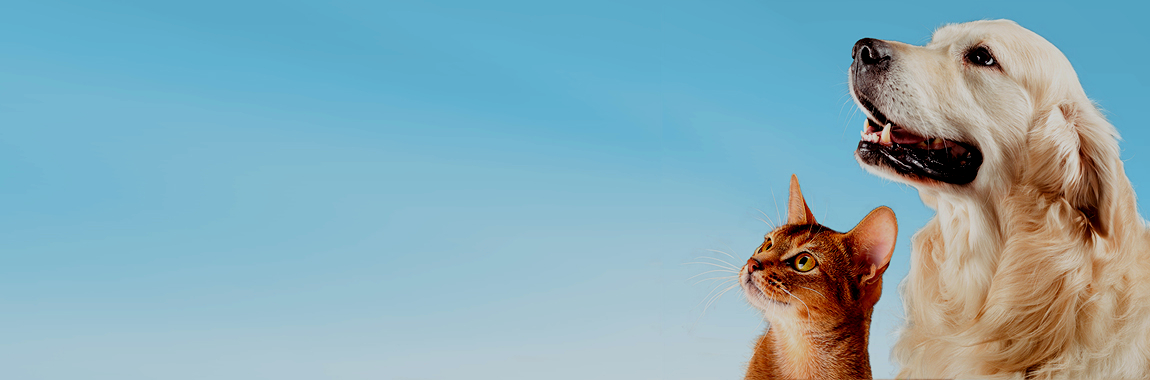
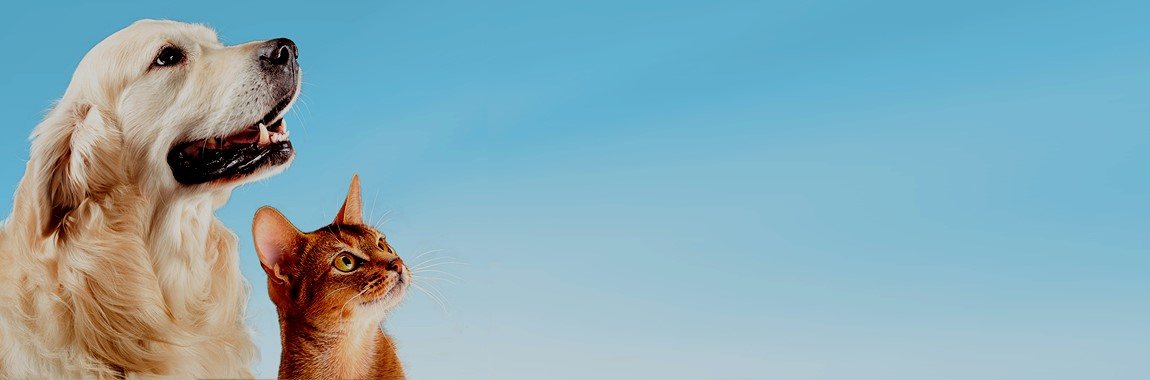
intento de arreglar el nav

diff --git a/assets/css/style.css b/assets/css/style.css
@@ -8,7 +8,7 @@
 .bodyConHeader{
     display: grid;
     grid-template-columns: repeat(4,1fr);
-    grid-template-rows: 65px 400px auto 80px;
+    grid-template-rows: 65px 435px auto 80px;
     grid-template-areas:"nav   nav     nav nav"
                         "header header header header"
                         "main   main   main main" 
@@ -18,18 +18,18 @@
 
 @media screen and (max-width:820px){
     .bodyConHeader{
-    grid-template-rows: 65px 550px auto 80px;
+    grid-template-rows: 65px 400px auto 80px;
     }
 }
-@media screen and (max-width:550px){
+@media screen and (max-width:600px){
     .bodyConHeader{
-        grid-template-rows: 65px 700px auto 110px;
+        grid-template-rows: 65px 300px auto 110px;
     }    
 }
 .bodySinHeader{
     display: grid;
     grid-template-columns: repeat(3,1fr);
-    grid-template-rows: 65px auto 80px;
+    grid-template-rows: 80px auto 80px;
     grid-template-areas:"nav    nav    nav nav"
                         "main   main   main main"
                         "footer footer footer footer";
@@ -41,7 +41,7 @@
     }
 }
 
-@media screen and (max-width:550px){
+@media screen and (max-width:600px){
     .bodySinHeader{
         grid-template-rows: 65px auto 110px;
     }
@@ -54,14 +54,11 @@
     grid-area: nav;
     background-color:#3AB4F2;;
     width: 100%;
-    position: fixed;
     padding: 10px 0;
     display: flex;
     justify-content: space-between;
 }
-.navegador i{
-    display: none;
-}
+
 
 .navegador ul {
     list-style-type: none;
@@ -83,8 +80,6 @@
     
 }
 
-
-
 .navegador .logo{
     display: flex;
     align-items: center;
@@ -102,33 +97,26 @@
     margin-right: 5px;
 }
 
+.labelMenu , .inputMenu {
+    display: none;
+}
+
 @media screen and (max-width:820px){
-    .navegador i{
-        display: block;
-        font-size: 50px;
-        padding: 10px;
-    }
-    .navegador ul{
-        position: fixed;
-        top: 0px;
-        left: -300px;
-        width: 250px;
-        height: 100vh;
+    .navegador > ul{
+        display: none;
         flex-direction: column;
-        justify-content: start;
-        align-items: center;
-        padding-top: 100px;
-        row-gap: 50px;
-        background-color:#3AB4F2;
-        transition: 0.2s;
     }
-    .navegador .fa-bars:hover +ul {
-        left: 0px;
+    .labelMenu{
+        display: block;
+        font-size: 30px;
+        margin-left: 10px;
     }
 
-    .navegador >ul:hover{
-        left: 0;
-    } 
+    .inputMenu:checked + .navegador > ul{
+        display: block;
+    }
+   
+
 }
 
 .navegador ul li a::after{
@@ -155,43 +143,41 @@
 
 .encabezado{
     grid-area: header;
-    background-image: url(../img/headerImg.jpg);
-    display: flex;
+}
+.encabezado p{
+    font-size: 20px;
+}
+.encabezado1{
+    grid-area: header;
+    background-image: url(../img/headerdogs.jpg);
     background-size: cover;
-    align-items: center;
-    justify-content: center;
-    color: #fff;
+}
+.encabezado2 {
+    background-image: url(../img/headercats.jpg);
+    background-size: cover;
+    width: 100vw;
 }
 
-.encabezadoInfo p{
-    font-size: 30px;
-    margin: 10px 20px;
-
+/*desaparece texto enn 770px*/
+@media screen and (min-width:820){
+    .slide img{
+        height: 500px;
+        object-fit: cover;
+    }
 }
-
-.encabezadoInfo h1{
-    font-family: 'Mukta', sans-serif;
-}
-.encabezadoInfo{
-    font-family: 'Lato', sans-serif;
-    font-weight: bold;
-    
-}
-
 @media screen and (max-width:820px){
-    .encabezado{
-        background-image: url(../img/header4.jpg);
-        color: #000;
+    .slide img{
+        height: 400px;
+        object-fit: cover;
     }
-    .encabezadoInfo h1{
-        padding-bottom: 30px;
-    
-    }
-        
+   
 }
 
-@media screen and (max-width:550px){
-    
+@media screen and (max-width:600px){
+    .slide img{
+        height: 300px;
+        object-fit: cover;
+    }
     .encabezadoInfo h1{
         font-size: 70px;
         margin: 0;
@@ -339,12 +325,12 @@ footer{
 }
 
 
-.encabezadoAdopcion .encabezadoInfo{
+.encabezadoInfo{
     text-align: center;
     font-size: 20px;
     color: #fff;
 }
-.encabezadoAdopcion .encabezadoInfo p{
+.encabezadoInfo p{
     margin-bottom: 50px;
 
 }
@@ -359,30 +345,31 @@ footer{
 
 @media screen and (max-width:820px){
     .encabezadoAdopcion .encabezadoInfo p{
-        font-size: 35px;
+        font-size: 20px;
         margin-bottom: 30px;
+        margin-right: 10px;
     }
     .encabezadoAdopcion .encabezadoInfo h1{
         font-size: 50px;
     }
     .encabezadoInfo a{
         display: flex;
-        width: 100%;
-        padding: 15px 0px;
-        font-size: 30px;
+        margin: auto;
+        width: 80%;
+        padding: 5px 0px;
+        font-size: 20px;
+        font-weight: bold;
         justify-content: center;
         background-color: #F2DF3A;
         border: none;
 
     }
-    .encabezadoAdopcion{
-        background-image: url(../img/header3.jpg);
-    }
+    
 }
 .encabezadoInfo a:hover{
     background-color: #F2DF3A;
 }
-@media screen and (max-width:450px){
+@media screen and (max-width:780px){
     .encabezadoAdopcion{
         justify-content: start;
     }
@@ -392,6 +379,20 @@ footer{
     }
     .encabezadoAdopcion .encabezadoInfo h1{
         font-size: 30px;
+    }
+
+}
+@media screen and (max-width:450px){
+    .encabezadoAdopcion .encabezadoInfo p{
+        margin-bottom: 5px;
+        font-size: 15px;
+    }
+    .encabezadoAdopcion .encabezadoInfo h1{
+        font-size: 25px;
+    }
+    .encabezadoAdopcion .encabezadoInfo a{
+        font-size: 10px;
+        margin-bottom: 10px;
     }
 }
 
@@ -463,7 +464,8 @@ main p{
     
 
 .formulario{
-    margin: auto;
+    margin: 30px auto;
+    width: 900px;
     box-shadow: 0px 0px 10px 10px rgba(0 0 0/20%);
     border: #000;
     border-radius: 5px;
@@ -495,6 +497,7 @@ main p{
 
 .formulario button:nth-child(5){
     grid-area: button;
+    width: 200px;
     border: none;
     border-radius: 5px;
     padding: 10px;
@@ -502,6 +505,8 @@ main p{
     font-weight: bold;
     background-color: #F2DF3A;
     margin: 30px 0;
+    
+    
 }
 
 .formulario label{
@@ -527,6 +532,9 @@ main p{
                               "email       email"
                               "comentario  comentario"
                               "button      button";
+    }
+    .formulario button:nth-child(7){
+        width: 100%;
     }
 }
 

diff --git a/index.html b/index.html
@@ -6,14 +6,14 @@
     <meta name="viewport" content="width=device-width, initial-scale=1.0">
     <title>Pet Lovers</title>
     <link rel="preconnect" href="https://fonts.googleapis.com">
-    <link rel="preconnect" href="https://fonts.gstatic.com" crossorigin> 
-    <link rel="stylesheet" href="https://cdn.jsdelivr.net/npm/bootstrap-icons@1.10.3/font/bootstrap-icons.css">
+    <link rel="stylesheet" href="https://cdnjs.cloudflare.com/ajax/libs/font-awesome/6.2.0/css/all.min.css" integrity="sha512-xh6O/CkQoPOWDdYTDqeRdPCVd1SpvCA9XXcUnZS2FmJNp1coAFzvtCN9BmamE+4aHK8yyUHUSCcJHgXloTyT2A==" crossorigin="anonymous" referrerpolicy="no-referrer" />
     <link href="https://cdn.jsdelivr.net/npm/bootstrap@5.3.0-alpha1/dist/css/bootstrap.min.css" rel="stylesheet" integrity="sha384-GLhlTQ8iRABdZLl6O3oVMWSktQOp6b7In1Zl3/Jr59b6EGGoI1aFkw7cmDA6j6gD" crossorigin="anonymous">
     <link rel="stylesheet" href="./assets/css/style.css">
 </head>
 <body class="bodyConHeader">
     <nav class="navegador">
-        <i class="bi bi-list"></i>
+      <label class="labelMenu" for="menu"><i class="fa-solid fa-bars"></i></label>
+      <input class="inputMenu" type="checkbox" id="menu">
         <div class="logo">
             <img src="./assets/img/logo.png">
             <h3>Pet Lovers</h3>
@@ -27,12 +27,46 @@
          </ul>
     </nav>
     <header class="encabezado">
-        <div class="encabezadoInfo">
-            <h1>¡Tu compra ayuda!</h1>
-            <p>Un porcentaje de tu compra está destinado a nuestro centro de adopción <br> Con tu apoyo estas ayudando a mejorar su calidad de vida.</p>
-        </div>
+        <div id="carouselExampleDark" class="carousel carousel-dark slide">
+            <div class="carousel-indicators">
+              <button type="button" data-bs-target="#carouselExampleDark" data-bs-slide-to="0" class="active" aria-current="true" aria-label="Slide 1"></button>
+              <button type="button" data-bs-target="#carouselExampleDark" data-bs-slide-to="1" aria-label="Slide 2"></button>
+              <button type="button" data-bs-target="#carouselExampleDark" data-bs-slide-to="2" aria-label="Slide 3"></button>
+            </div>
+            <div class="carousel-inner">
+              <div class="carousel-item active" data-bs-interval="10000">
+                <img src="./assets/img/carrusel1.jpg" class="d-block w-100">
+                <div class="carousel-caption d-none d-md-block">
+                  <h2>Juguetes para tu mascota</h2>
+                  <p>Encuentra la mejor calidad al mejor precio y una gran variedad de productos</p>
+                </div>
+              </div>
+              <div class="carousel-item" data-bs-interval="2000">
+                <img src="./assets/img/carrusel2.jpg" class="d-block w-100">
+                <div class="carousel-caption d-none d-md-block">
+                  <h2>Adopcion</h2>
+                  <p>Date una opotunidad de amar y adopta a tu proximo mejor amigo.</p>
+                </div>
+              </div>
+              <div class="carousel-item">
+                <img src="./assets/img/carrusel3.jpg" class="d-block w-100">
+                <div class="carousel-caption d-none d-md-block">
+                  <h2>Cuidados</h2>
+                  <p>Enterate de todos los cuidados que necesita tu mascota para que tenga una mejor calidad de vida</p>
+                </div>
+              </div>
+            </div>
+            <button class="carousel-control-prev" type="button" data-bs-target="#carouselExampleDark" data-bs-slide="prev">
+              <span class="carousel-control-prev-icon" aria-hidden="true"></span>
+              <span class="visually-hidden">Previous</span>
+            </button>
+            <button class="carousel-control-next" type="button" data-bs-target="#carouselExampleDark" data-bs-slide="next">
+              <span class="carousel-control-next-icon" aria-hidden="true"></span>
+              <span class="visually-hidden">Next</span>
+            </button>
+          </div>
     </header>
-
+    
     <main>
         <h2>Destacados de la semana</h2>
         <section class="destacada">

diff --git a/pages/perros.html b/pages/perros.html
@@ -26,12 +26,7 @@
             <li><a href="./contacto.html">Contacto</a></li> 
          </ul>
     </nav>
-    <header class="encabezado">
-        <div class="encabezadoInfo">
-            <h1>¡Tu compra ayuda!</h1>
-            <p>Un porcentaje de tu compra está destinado a nuestro centro de adopción.</p>
-            <p>Con tu apoyo estas ayudando a mejorar su calidad de vida.</p>
-        </div>
+    <header class="encabezado1">
     </header>
     <main>
         <h1>Alimento para perros</h1>

diff --git a/pages/gatos.html b/pages/gatos.html
@@ -26,12 +26,7 @@
             <li><a href="./contacto.html">Contacto</a></li> 
          </ul>
     </nav>
-    <header class="encabezado">
-        <div class="encabezadoInfo">
-            <h1>¡Tu compra ayuda!</h1>
-            <p>Un porcentaje de tu compra está destinado a nuestro centro de adopción.</p>
-            <p>Con tu apoyo estas ayudando a mejorar su calidad de vida.</p>
-        </div>
+    <header class="encabezado2">
     </header>
     <main>
         <h1>Alimento para gatos</h1>
